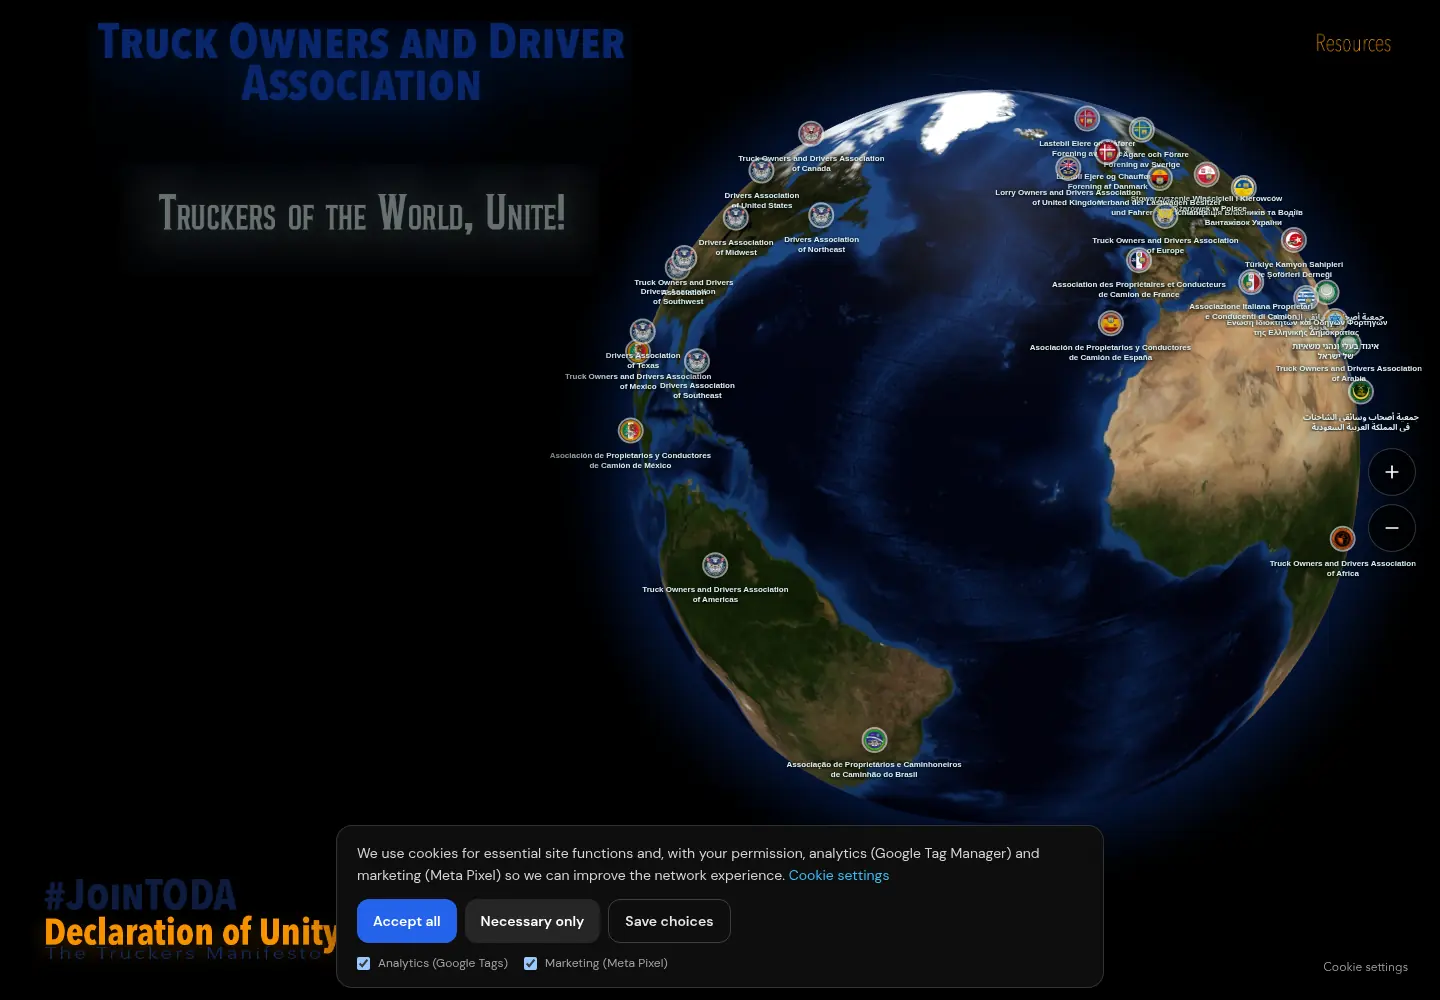
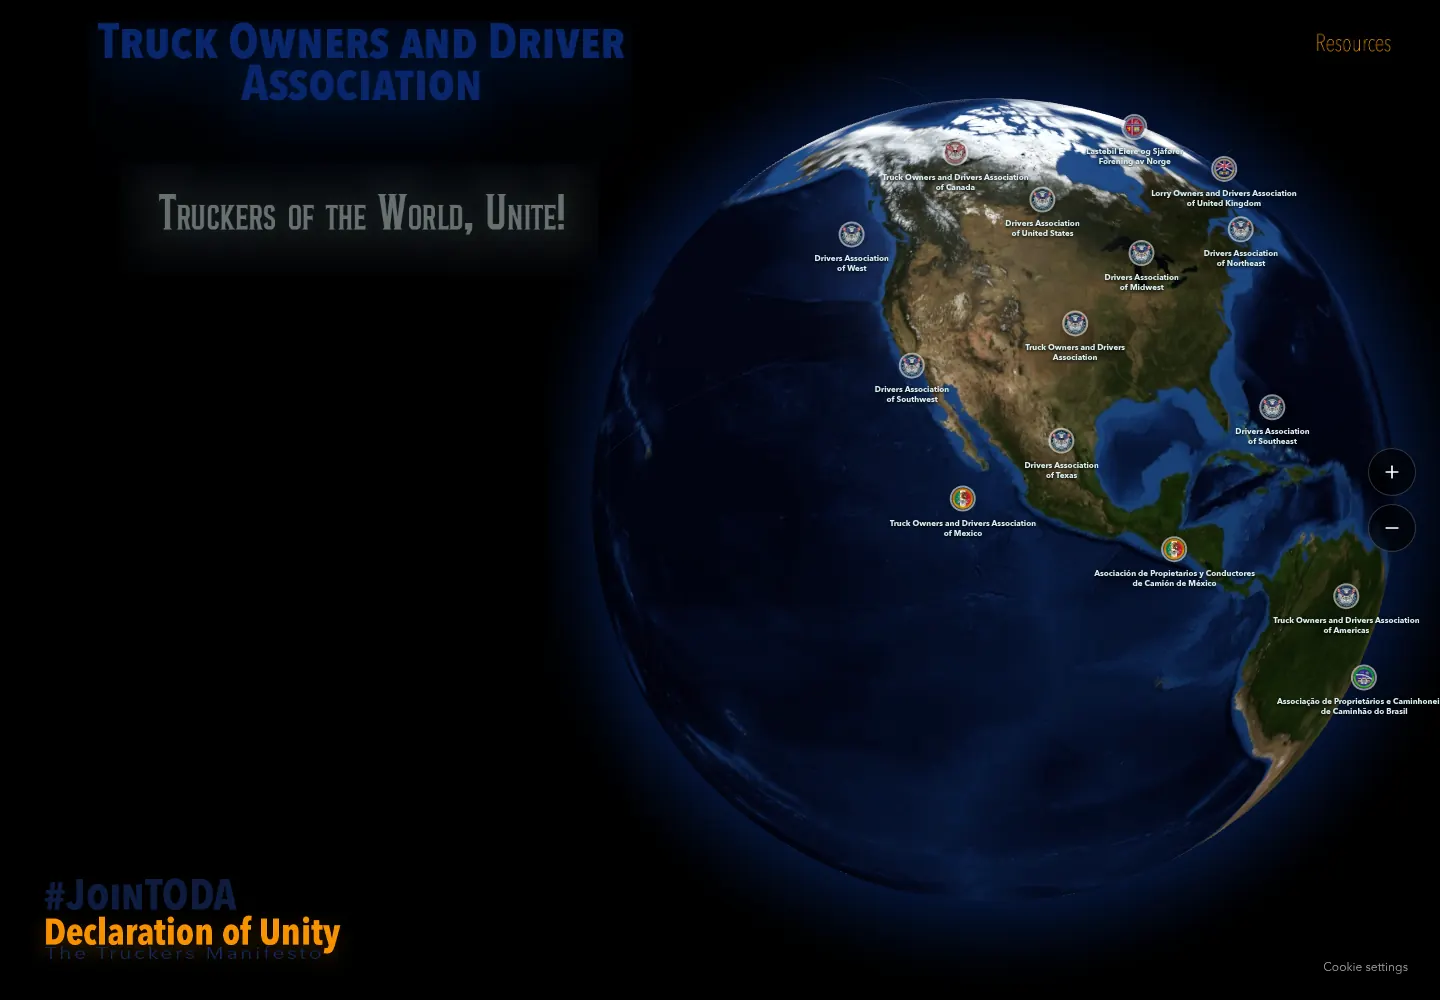
Tighten contact type, quote choices, and the homepage.
Contact details step down one size. Get a quote now offers WhatsApp or the studio email. Service categories are pills, the portfolio stats block is gone, and the Truckers card no longer includes the cookie banner.

Changed region(s): [[0.2188, 0.093, 1.0, 0.992]]

diff --git a/app/services/page.tsx b/app/services/page.tsx
@@ -1,11 +1,11 @@
 import type { Metadata } from "next"
-import Link from "next/link"
 import {
   Accordion,
   AccordionItem,
   AccordionPanel,
   AccordionTrigger,
 } from "@/components/ui/accordion"
+import { QuoteChooser } from "@/components/services/quote-chooser"
 import { CtaBand, PageHero, SectionHeading } from "@/components/shared/page-hero"
 import { faqs, packages } from "@/data/content"
 import { serviceGroups } from "@/data/services"
@@ -24,13 +24,16 @@ export default function ServicesPage() {
         exists for that.
       </PageHero>
       <div className="bg-black">
-        <div className="mx-auto grid w-full max-w-6xl gap-10 px-5 pb-8 sm:px-8 lg:grid-cols-[220px_1fr] lg:gap-16">
-          <nav className="sticky top-16 z-30 flex flex-wrap gap-2 bg-black/95 py-3 backdrop-blur sm:top-20 lg:top-28 lg:block lg:space-y-1 lg:bg-transparent lg:py-0" aria-label="Service categories">
+        <div className="mx-auto w-full max-w-6xl px-5 pb-8 sm:px-8">
+          <nav
+            className="sticky top-16 z-30 flex flex-wrap gap-2 bg-black/95 py-4 backdrop-blur sm:top-20"
+            aria-label="Service categories"
+          >
             {serviceGroups.map((group) => (
               <a
                 key={group.id}
                 href={`#${group.id}`}
-                className="inline-flex min-h-11 items-center rounded-full border border-ivory/15 px-3 text-sm text-grey hover:border-maroon hover:text-ivory lg:flex lg:min-h-10 lg:rounded-none lg:border-0 lg:px-0"
+                className="inline-flex min-h-11 items-center rounded-full border border-ivory/20 bg-maroon-tint px-4 text-sm text-ivory no-underline hover:border-maroon hover:bg-maroon-deep"
               >
                 {group.title}
               </a>
@@ -38,7 +41,7 @@ export default function ServicesPage() {
           </nav>
           <div className="space-y-20 pb-20">
             {serviceGroups.map((group) => (
-              <section key={group.id} id={group.id} className="scroll-mt-28">
+              <section key={group.id} id={group.id} className="scroll-mt-64">
                 <h2 className="font-display text-[clamp(2rem,4vw,3rem)] leading-none text-ivory">{group.title}</h2>
                 <p className="mt-4 max-w-prose text-lg text-grey">{group.intro}</p>
                 <div className="mt-8 space-y-4">
@@ -55,12 +58,7 @@ export default function ServicesPage() {
                           <li key={point}>· {point}</li>
                         ))}
                       </ul>
-                      <Link
-                        href={`/contact?type=${item.quote}`}
-                        className="mt-5 inline-flex min-h-11 items-center text-sm text-ivory no-underline hover:text-white"
-                      >
-                        Get a quote
-                      </Link>
+                      <QuoteChooser id={item.id} service={item.title} />
                     </article>
                   ))}
                 </div>

diff --git a/components/sections/home-sections.tsx b/components/sections/home-sections.tsx
@@ -3,7 +3,7 @@
 import { useEffect, useState } from "react"
 import Image from "next/image"
 import Link from "next/link"
-import { motion, useReducedMotion } from "framer-motion"
+import { useReducedMotion } from "framer-motion"
 import { expectations, marqueeItems, process, why } from "@/data/content"
 import { projects } from "@/data/projects"
 import { homeServices } from "@/data/services"
@@ -162,65 +162,6 @@ export function Process() {
             </Reveal>
           ))}
         </ol>
-      </div>
-    </section>
-  )
-}
-
-function useCount(target: number, start: boolean) {
-  const reduce = useReducedMotion()
-  const [value, setValue] = useState(reduce ? target : 0)
-  useEffect(() => {
-    if (!start) return
-    if (reduce) {
-      const frame = requestAnimationFrame(() => setValue(target))
-      return () => cancelAnimationFrame(frame)
-    }
-    const began = performance.now()
-    let frame = 0
-    const tick = (now: number) => {
-      const progress = Math.min(1, (now - began) / 900)
-      setValue(Math.round(target * (1 - Math.pow(1 - progress, 3))))
-      if (progress < 1) frame = requestAnimationFrame(tick)
-    }
-    frame = requestAnimationFrame(tick)
-    return () => cancelAnimationFrame(frame)
-  }, [reduce, start, target])
-  return value
-}
-
-export function PortfolioFacts() {
-  const [start, setStart] = useState(false)
-  const sites = useCount(11, start)
-  const kinds = useCount(4, start)
-  return (
-    <section className="bg-ivory py-20 text-black sm:py-28">
-      <div className="mx-auto w-full max-w-6xl px-5 sm:px-8">
-        <Reveal>
-          <SectionHeading title="In this portfolio" tone="dark">
-            Counts below are things you can check on this site. We do not publish invented client
-            totals.
-          </SectionHeading>
-        </Reveal>
-        <motion.dl
-          onViewportEnter={() => setStart(true)}
-          viewport={{ once: true, margin: "-80px" }}
-          className="mt-12 grid gap-4 sm:grid-cols-3"
-        >
-          <div className="rounded-2xl bg-black p-6 text-ivory">
-            <dt className="text-sm text-grey">Live sites linked here</dt>
-            <dd className="mt-3 font-display text-6xl">{sites}</dd>
-          </div>
-          <div className="rounded-2xl bg-black p-6 text-ivory">
-            <dt className="text-sm text-grey">Kinds of work in that set</dt>
-            <dd className="mt-3 font-display text-6xl">{kinds}</dd>
-            <p className="mt-2 text-sm text-grey">Business, shop, wedding, web app</p>
-          </div>
-          <div className="rounded-2xl bg-maroon-deep p-6 text-ivory">
-            <dt className="text-sm text-ivory/80">Studio</dt>
-            <dd className="mt-3 font-display text-4xl leading-tight sm:text-5xl">Founder-led</dd>
-          </div>
-        </motion.dl>
       </div>
     </section>
   )

diff --git a/components/services/quote-chooser.tsx b/components/services/quote-chooser.tsx
@@ -1,0 +1,50 @@
+"use client"
+
+import { useState } from "react"
+import { site } from "@/data/site"
+import { whatsappHref } from "@/lib/utils"
+
+export function QuoteChooser({ id, service }: { id: string; service: string }) {
+  const [open, setOpen] = useState(false)
+  const note = `Hello CODE & CO. I would like a quote for ${service}.`
+  const email = site.emails[0]
+  const mailto = `mailto:${email}?subject=${encodeURIComponent(`Quote for ${service}`)}&body=${encodeURIComponent(note)}`
+  const panelId = `quote-${id}`
+
+  return (
+    <div className="mt-5">
+      <button
+        type="button"
+        aria-expanded={open}
+        aria-controls={panelId}
+        onClick={() => setOpen((value) => !value)}
+        className="inline-flex min-h-11 items-center text-sm text-ivory hover:text-white"
+      >
+        Get a quote
+      </button>
+      {open ? (
+        <div
+          id={panelId}
+          className="mt-3 flex flex-wrap gap-2"
+          role="group"
+          aria-label={`Ask for a ${service} quote`}
+        >
+          <a
+            href={whatsappHref(site.whatsappDigits, note)}
+            target="_blank"
+            rel="noreferrer"
+            className="inline-flex min-h-11 items-center rounded-full bg-maroon-deep px-4 text-sm text-ivory no-underline hover:bg-maroon-tint"
+          >
+            WhatsApp
+          </a>
+          <a
+            href={mailto}
+            className="inline-flex min-h-11 items-center rounded-full border border-ivory/30 px-4 text-sm text-ivory no-underline hover:border-ivory"
+          >
+            Email
+          </a>
+        </div>
+      ) : null}
+    </div>
+  )
+}

diff --git a/app/contact/page.tsx b/app/contact/page.tsx
@@ -66,7 +66,7 @@ export default async function ContactPage({
               className={`group block rounded-3xl border border-maroon bg-maroon-tint p-5 no-underline transition hover:-translate-y-0.5 hover:bg-maroon-deep sm:p-6 ${channel.span}`}
             >
               <span className="block text-xs tracking-[0.16em] text-grey uppercase">{channel.label}</span>
-              <span className="mt-3 block font-display text-xl leading-tight break-all text-ivory transition group-hover:text-white sm:text-2xl">
+              <span className="mt-2 block font-display text-lg leading-snug break-all text-ivory transition group-hover:text-white sm:text-xl">
                 {channel.value}
               </span>
             </a>
@@ -75,8 +75,8 @@ export default async function ContactPage({
       </section>
       <section className="bg-ivory py-16 text-black sm:py-24">
         <div className="mx-auto w-full max-w-3xl px-5 sm:px-8">
-          <h2 className="font-display text-4xl leading-none">Send a note</h2>
-          <p className="mt-4 max-w-prose text-lg text-black/70">
+          <h2 className="font-display text-3xl leading-none">Send a note</h2>
+          <p className="mt-3 max-w-prose text-base text-black/70">
             A name, the kind of site, and a sentence about the job is enough to start.
           </p>
           <div className="mt-10">

diff --git a/app/page.tsx b/app/page.tsx
@@ -5,7 +5,6 @@ import {
   FeaturedProjects,
   HomeClose,
   Marquee,
-  PortfolioFacts,
   Process,
   ServicesPreview,
   Why,
@@ -26,7 +25,6 @@ export default function HomePage() {
       <FeaturedProjects />
       <Why />
       <Process />
-      <PortfolioFacts />
       <Expectations />
       <HomeClose />
     </>
